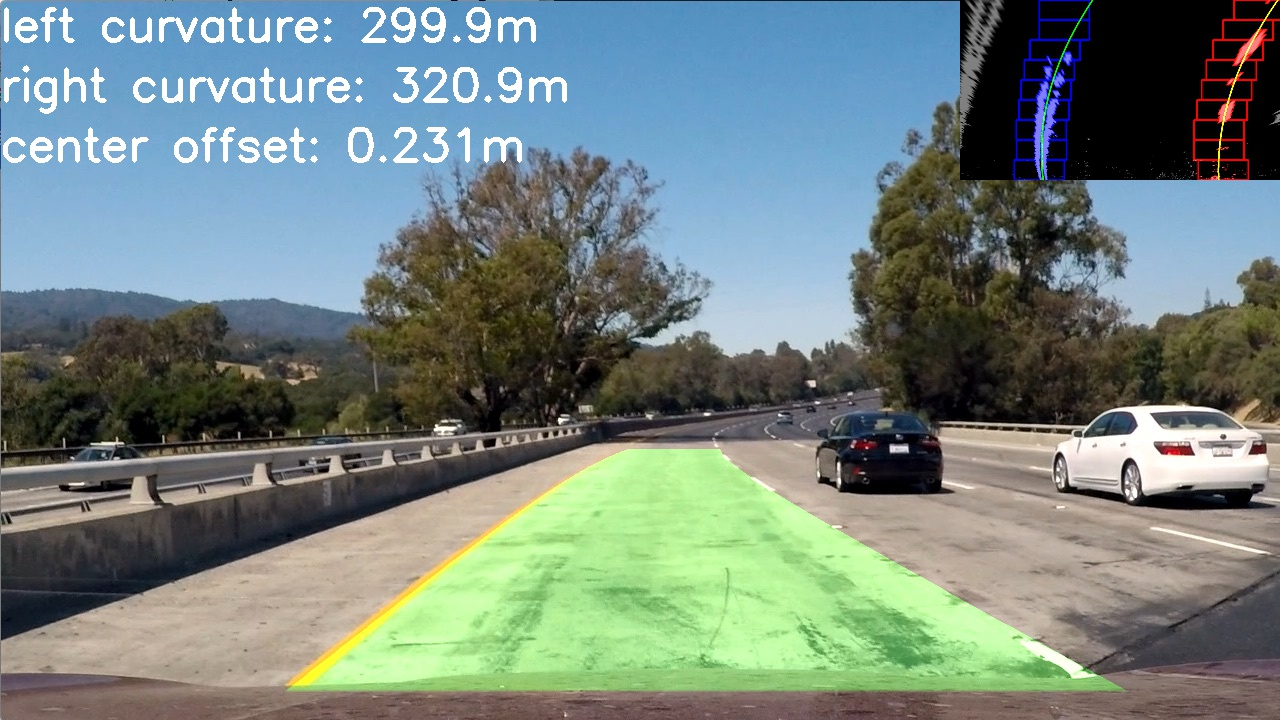
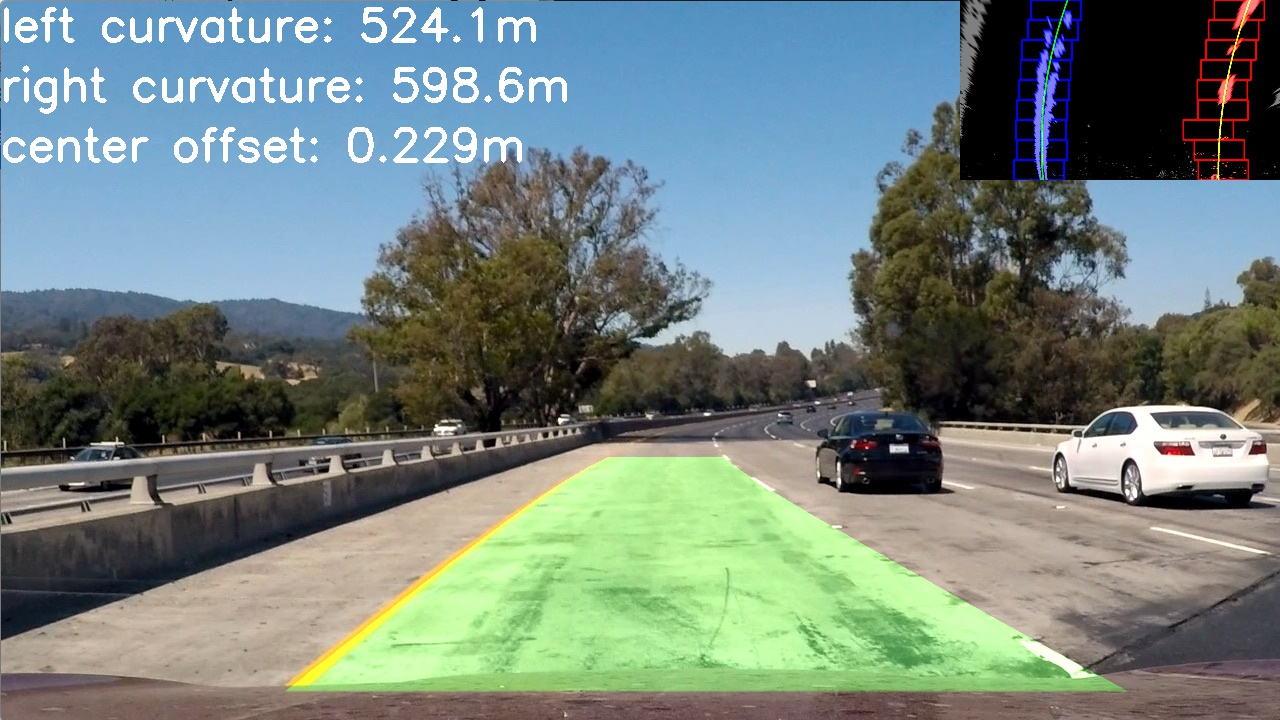
Create pipeline class
Also increase vertical size in top down image.

diff --git a/lanelines/pipeline.py b/lanelines/pipeline.py
@@ -5,54 +5,53 @@ from lanelines.camera import Camera
 from lanelines.detector import Detector
 
 
-camera = Camera.load()
-binarizer = Binarizer()
-detector = Detector(camera)
+class Pipeline:
 
+    def __init__(self):
+        self.camera = Camera.load()
+        self.binarizer = Binarizer()
+        self.detector = Detector(self.camera)
 
-def draw_lines(warped_image, original_image, line_left, line_right):
-    warp_zero = np.zeros_like(warped_image).astype(np.uint8)
-    color_warp = np.dstack((warp_zero, warp_zero, warp_zero))
+    def draw_lines(self, warped_image, original_image, line_left, line_right):
+        warp_zero = np.zeros_like(warped_image).astype(np.uint8)
+        color_warp = np.dstack((warp_zero, warp_zero, warp_zero))
 
-    # Recast the x and y points into usable format for cv2.fillPoly()
-    pts_left = np.array([np.transpose(np.vstack([line_left.fit_x, line_left.fit_y]))])
-    pts_right = np.array([np.flipud(np.transpose(np.vstack([line_right.fit_x, line_right.fit_y])))])
-    pts = np.hstack((pts_left, pts_right))
+        # Recast the x and y points into usable format for cv2.fillPoly()
+        pts_left = np.array([np.transpose(np.vstack([line_left.fit_x, line_left.fit_y]))])
+        pts_right = np.array([np.flipud(np.transpose(np.vstack([line_right.fit_x, line_right.fit_y])))])
+        pts = np.hstack((pts_left, pts_right))
 
-    # Draw the lane onto the warped blank image
-    cv2.fillPoly(color_warp, np.int_([pts]), (0, 255, 0))
-    # Warp the blank back to original image space using inverse perspective matrix (Minv)
-    newwarp = camera.to_perspective(color_warp)
-    # Combine the result with the original image
-    return cv2.addWeighted(original_image, 1, newwarp, 0.3, 0)
+        # Draw the lane onto the warped blank image
+        cv2.fillPoly(color_warp, np.int_([pts]), (0, 255, 0))
+        # Warp the blank back to original image space using inverse perspective matrix (Minv)
+        newwarp = self.camera.to_perspective(color_warp)
+        # Combine the result with the original image
+        return cv2.addWeighted(original_image, 1, newwarp, 0.3, 0)
 
+    def draw_info(self, image, line_left, line_right, offset):
+        cv2.putText(image, "left curvature: %0.1fm" % line_left.radius_of_curvature, (0, 40),
+                    cv2.FONT_HERSHEY_SIMPLEX, 1.5, (255, 255, 255), 3)
+        cv2.putText(image, "right curvature: %0.1fm" % line_right.radius_of_curvature, (0, 100),
+                    cv2.FONT_HERSHEY_SIMPLEX, 1.5, (255, 255, 255), 3)
+        cv2.putText(image, "center offset: %0.3fm" % offset, (0, 160), cv2.FONT_HERSHEY_SIMPLEX, 1.5,
+                    (255, 255, 255), 3)
 
-def draw_info(image, line_left, line_right, offset):
-    cv2.putText(image, "left curvature: %0.1fm" % line_left.radius_of_curvature, (0, 40),
-                cv2.FONT_HERSHEY_SIMPLEX, 1.5, (255, 255, 255), 3)
-    cv2.putText(image, "right curvature: %0.1fm" % line_right.radius_of_curvature, (0, 100),
-                cv2.FONT_HERSHEY_SIMPLEX, 1.5, (255, 255, 255), 3)
-    cv2.putText(image, "center offset: %0.3fm" % offset, (0, 160), cv2.FONT_HERSHEY_SIMPLEX, 1.5,
-                (255, 255, 255), 3)
+    def draw_top_down(self, image, top_down, lines_image, w=320, h=180):
+        top_down_resized = cv2.resize(top_down, (w, h))
+        lines_resized = cv2.resize(lines_image, (w, h))
+        top_down_color = np.uint8(np.dstack((top_down_resized, top_down_resized, top_down_resized)) * 255)
+        image[0:h, image.shape[1]-w:] = cv2.addWeighted(top_down_color, 0.5, lines_resized, 1, 0)
 
+    def process_image(self, image, display_top_down=True):
+        undistorted = self.camera.undistort(image)
+        binarized = self.binarizer.binarize(undistorted)
+        top_down = self.camera.to_top_down(binarized)
+        lines_image, line_left, line_right, offset = self.detector.detect(image, top_down)
 
-def draw_top_down(image, top_down, lines_image, w=320, h=180):
-    top_down_resized = cv2.resize(top_down, (w, h))
-    lines_resized = cv2.resize(lines_image, (w, h))
-    top_down_color = np.uint8(np.dstack((top_down_resized, top_down_resized, top_down_resized)) * 255)
-    image[0:h, image.shape[1]-w:] = cv2.addWeighted(top_down_color, 0.5, lines_resized, 1, 0)
+        lines_original = self.draw_lines(top_down, image, line_left, line_right)
+        self.draw_info(lines_original, line_left, line_right, offset)
+        if display_top_down:
+            self.draw_top_down(lines_original, top_down, lines_image)
 
-
-def process_image(image, display_top_down=True):
-    undistorted = camera.undistort(image)
-    binarized = binarizer.binarize(undistorted)
-    top_down = camera.to_top_down(binarized)
-    lines_image, line_left, line_right, offset = detector.detect(image, top_down)
-
-    lines_original = draw_lines(top_down, image, line_left, line_right)
-    draw_info(lines_original, line_left, line_right, offset)
-    if display_top_down:
-        draw_top_down(lines_original, top_down, lines_image)
-
-    return lines_image, line_left, line_right, offset, lines_original, top_down
+        return lines_image, line_left, line_right, offset, lines_original, top_down
 

diff --git a/lanelines/process.py b/lanelines/process.py
@@ -5,7 +5,7 @@ import matplotlib.pyplot as plt
 from lanelines.camera import Camera
 from lanelines.detector import Detector
 from lanelines.binarizer import Binarizer
-import lanelines.pipeline as pipeline
+from lanelines.pipeline import Pipeline
 
 
 def calibrate_camera():
@@ -80,6 +80,7 @@ def detect_lane_lines(detector):
         print("detect lane lines", image_name)
         image_name = image_name.replace('.jpg', '')
         image = cv2.imread("../test_images/"+image_name+".jpg")
+        pipeline = Pipeline()
         lines_image, line_left, line_right, offset, lines_original, top_down = pipeline.process_image(image)
         cv2.imwrite("../output_images/" + image_name + "_lines.jpg", lines_image)
         cv2.imwrite("../output_images/" + image_name + "_lines_perspective.jpg", lines_original)

diff --git a/lanelines/camera.py b/lanelines/camera.py
@@ -28,7 +28,7 @@ class Camera:
     def undistort(self, image):
         return cv2.undistort(image, self.camera_matrix, self.dist_coeffs, None, self.camera_matrix)
 
-    def detect_perspective(self, image, source_points, dest_points=None, offset_x=300, offset_y=250):
+    def detect_perspective(self, image, source_points, dest_points=None, offset_x=300, offset_y=100):
         if dest_points is None:
             dest_points = np.float32([(offset_x, offset_y), (image.shape[1] - offset_x, offset_y),
                                       (image.shape[1] - offset_x, image.shape[0]), (offset_x, image.shape[0])])

diff --git a/lanelines/line.py b/lanelines/line.py
@@ -31,7 +31,7 @@ class Line:
         self.calculate_curvature()
 
     def calculate_curvature(self):
-        y_eval = np.max(self.fit_y)
+        y_eval = self.fit_y[-1]
         # Fit new polynomials to x,y in world space
         fit_curve = np.polyfit(self.fit_y * self.meters_per_pixels[1], self.fit_x * self.meters_per_pixels[0], 2)
         # Calculate the new radii of curvature

diff --git a/lanelines/process_video.py b/lanelines/process_video.py
@@ -1,5 +1,7 @@
 from moviepy.editor import VideoFileClip
-import lanelines.pipeline as pipeline
+from lanelines.pipeline import Pipeline
+
+pipeline = Pipeline()
 
 
 def process_frame(image):
